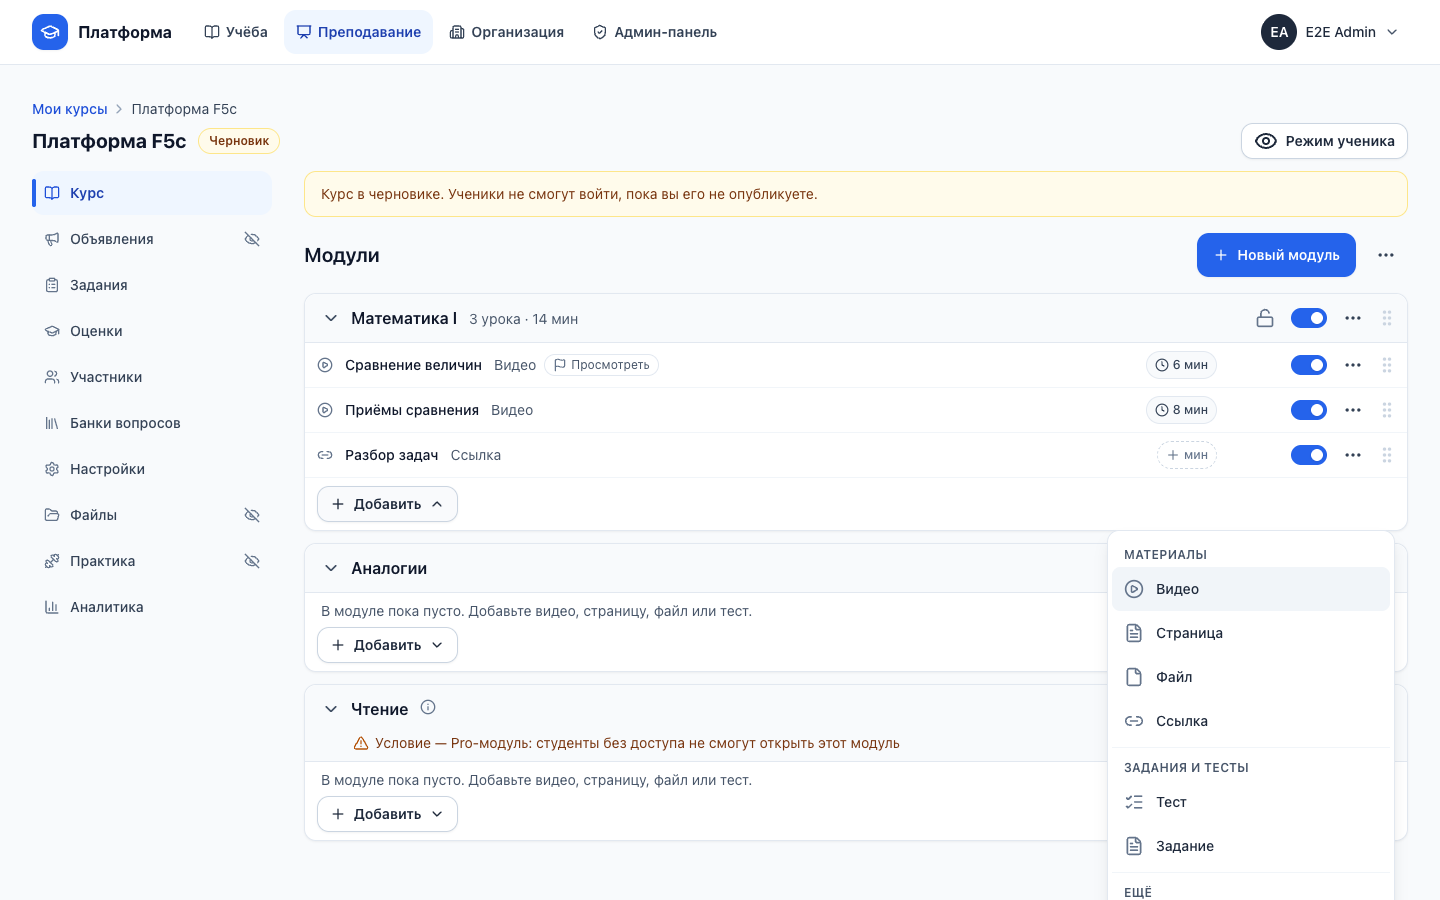
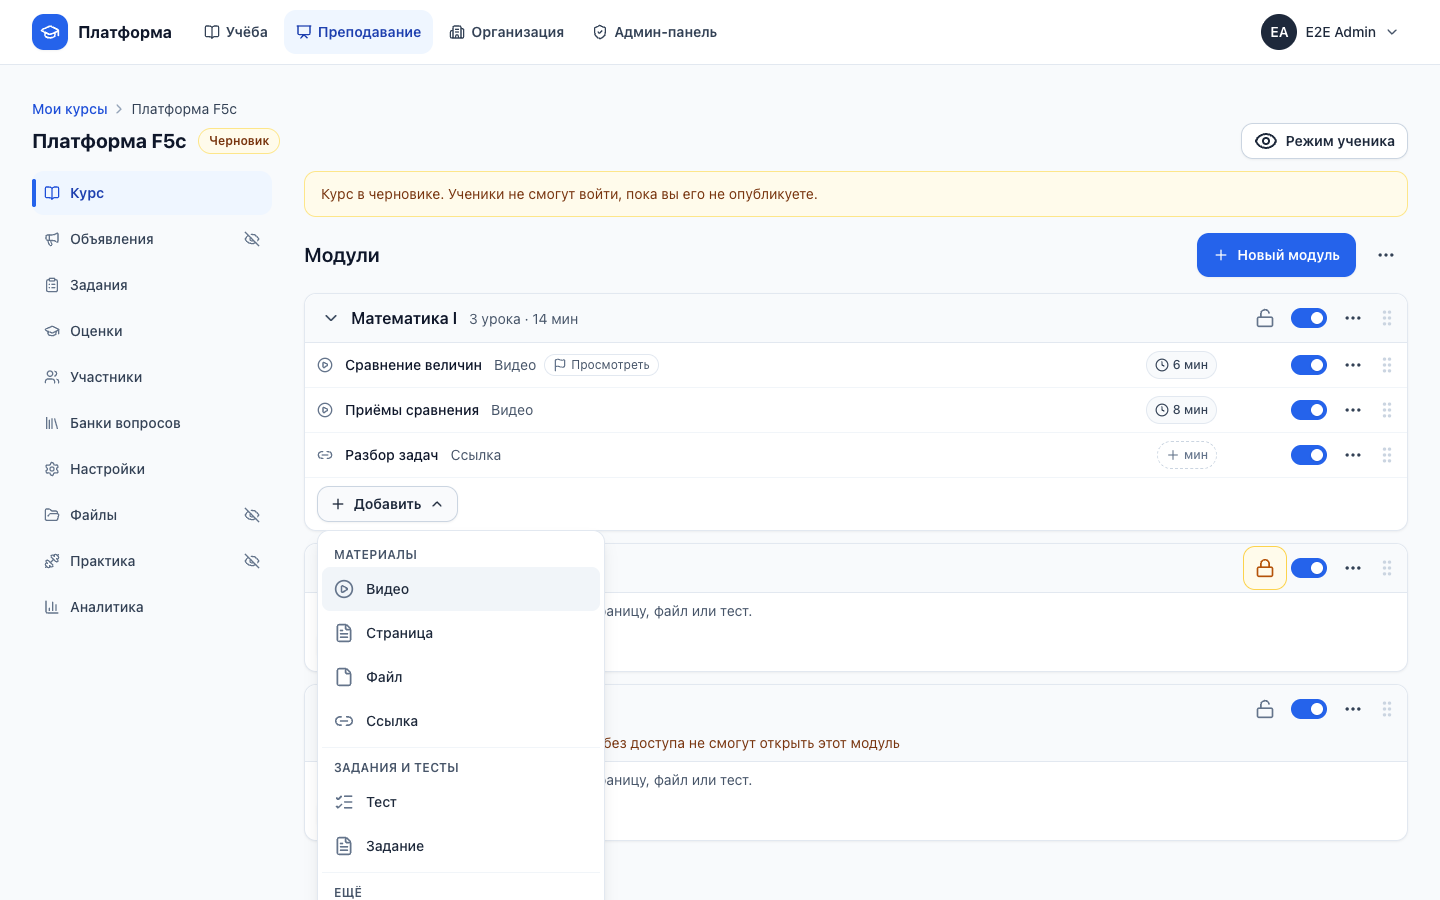
FB8-5 S2: + Добавить menu opens under its button, left-aligned from sm (phone bottom sheet unchanged); add shots re-taken

diff --git a/frontend/src/components/lms/modules/ModuleOutlineEditor.tsx b/frontend/src/components/lms/modules/ModuleOutlineEditor.tsx
@@ -805,8 +805,10 @@ export function ModuleOutlineEditor({ refreshKey = 0, onChanged, onModules, afte
                 ) : canEdit && (
                   <div className={cn("px-2 py-2 sm:px-3", items.length > 0 && "border-t border-slate-100")}>
                     {items.length === 0 && <p className="px-1 pb-1.5 text-sm leading-5 text-slate-600">{t("modules.editor.emptyModule")}</p>}
-                    {/* FB8 S2: one "+ Добавить" menu (a bottom sheet on phones) instead of a button per kind */}
+                    {/* FB8 S2: one "+ Добавить" menu (a bottom sheet on phones) instead of a button per kind; from `sm` it
+                        opens under its button, left-aligned (the shared menu is right-aligned to its root by default) */}
                     <OutlineMenu trigger="button" variant="secondary" chevron label={addLabel} groups={addGroups} onSelect={(id) => onAdd(m, id)}
+                      className="w-fit sm:[&>[role=menu]]:left-0 sm:[&>[role=menu]]:right-auto"
                       leftIcon={<Plus aria-hidden="true" className="h-4 w-4" />} text={t("modules.editor.addMenu")} />
                   </div>
                 )}
